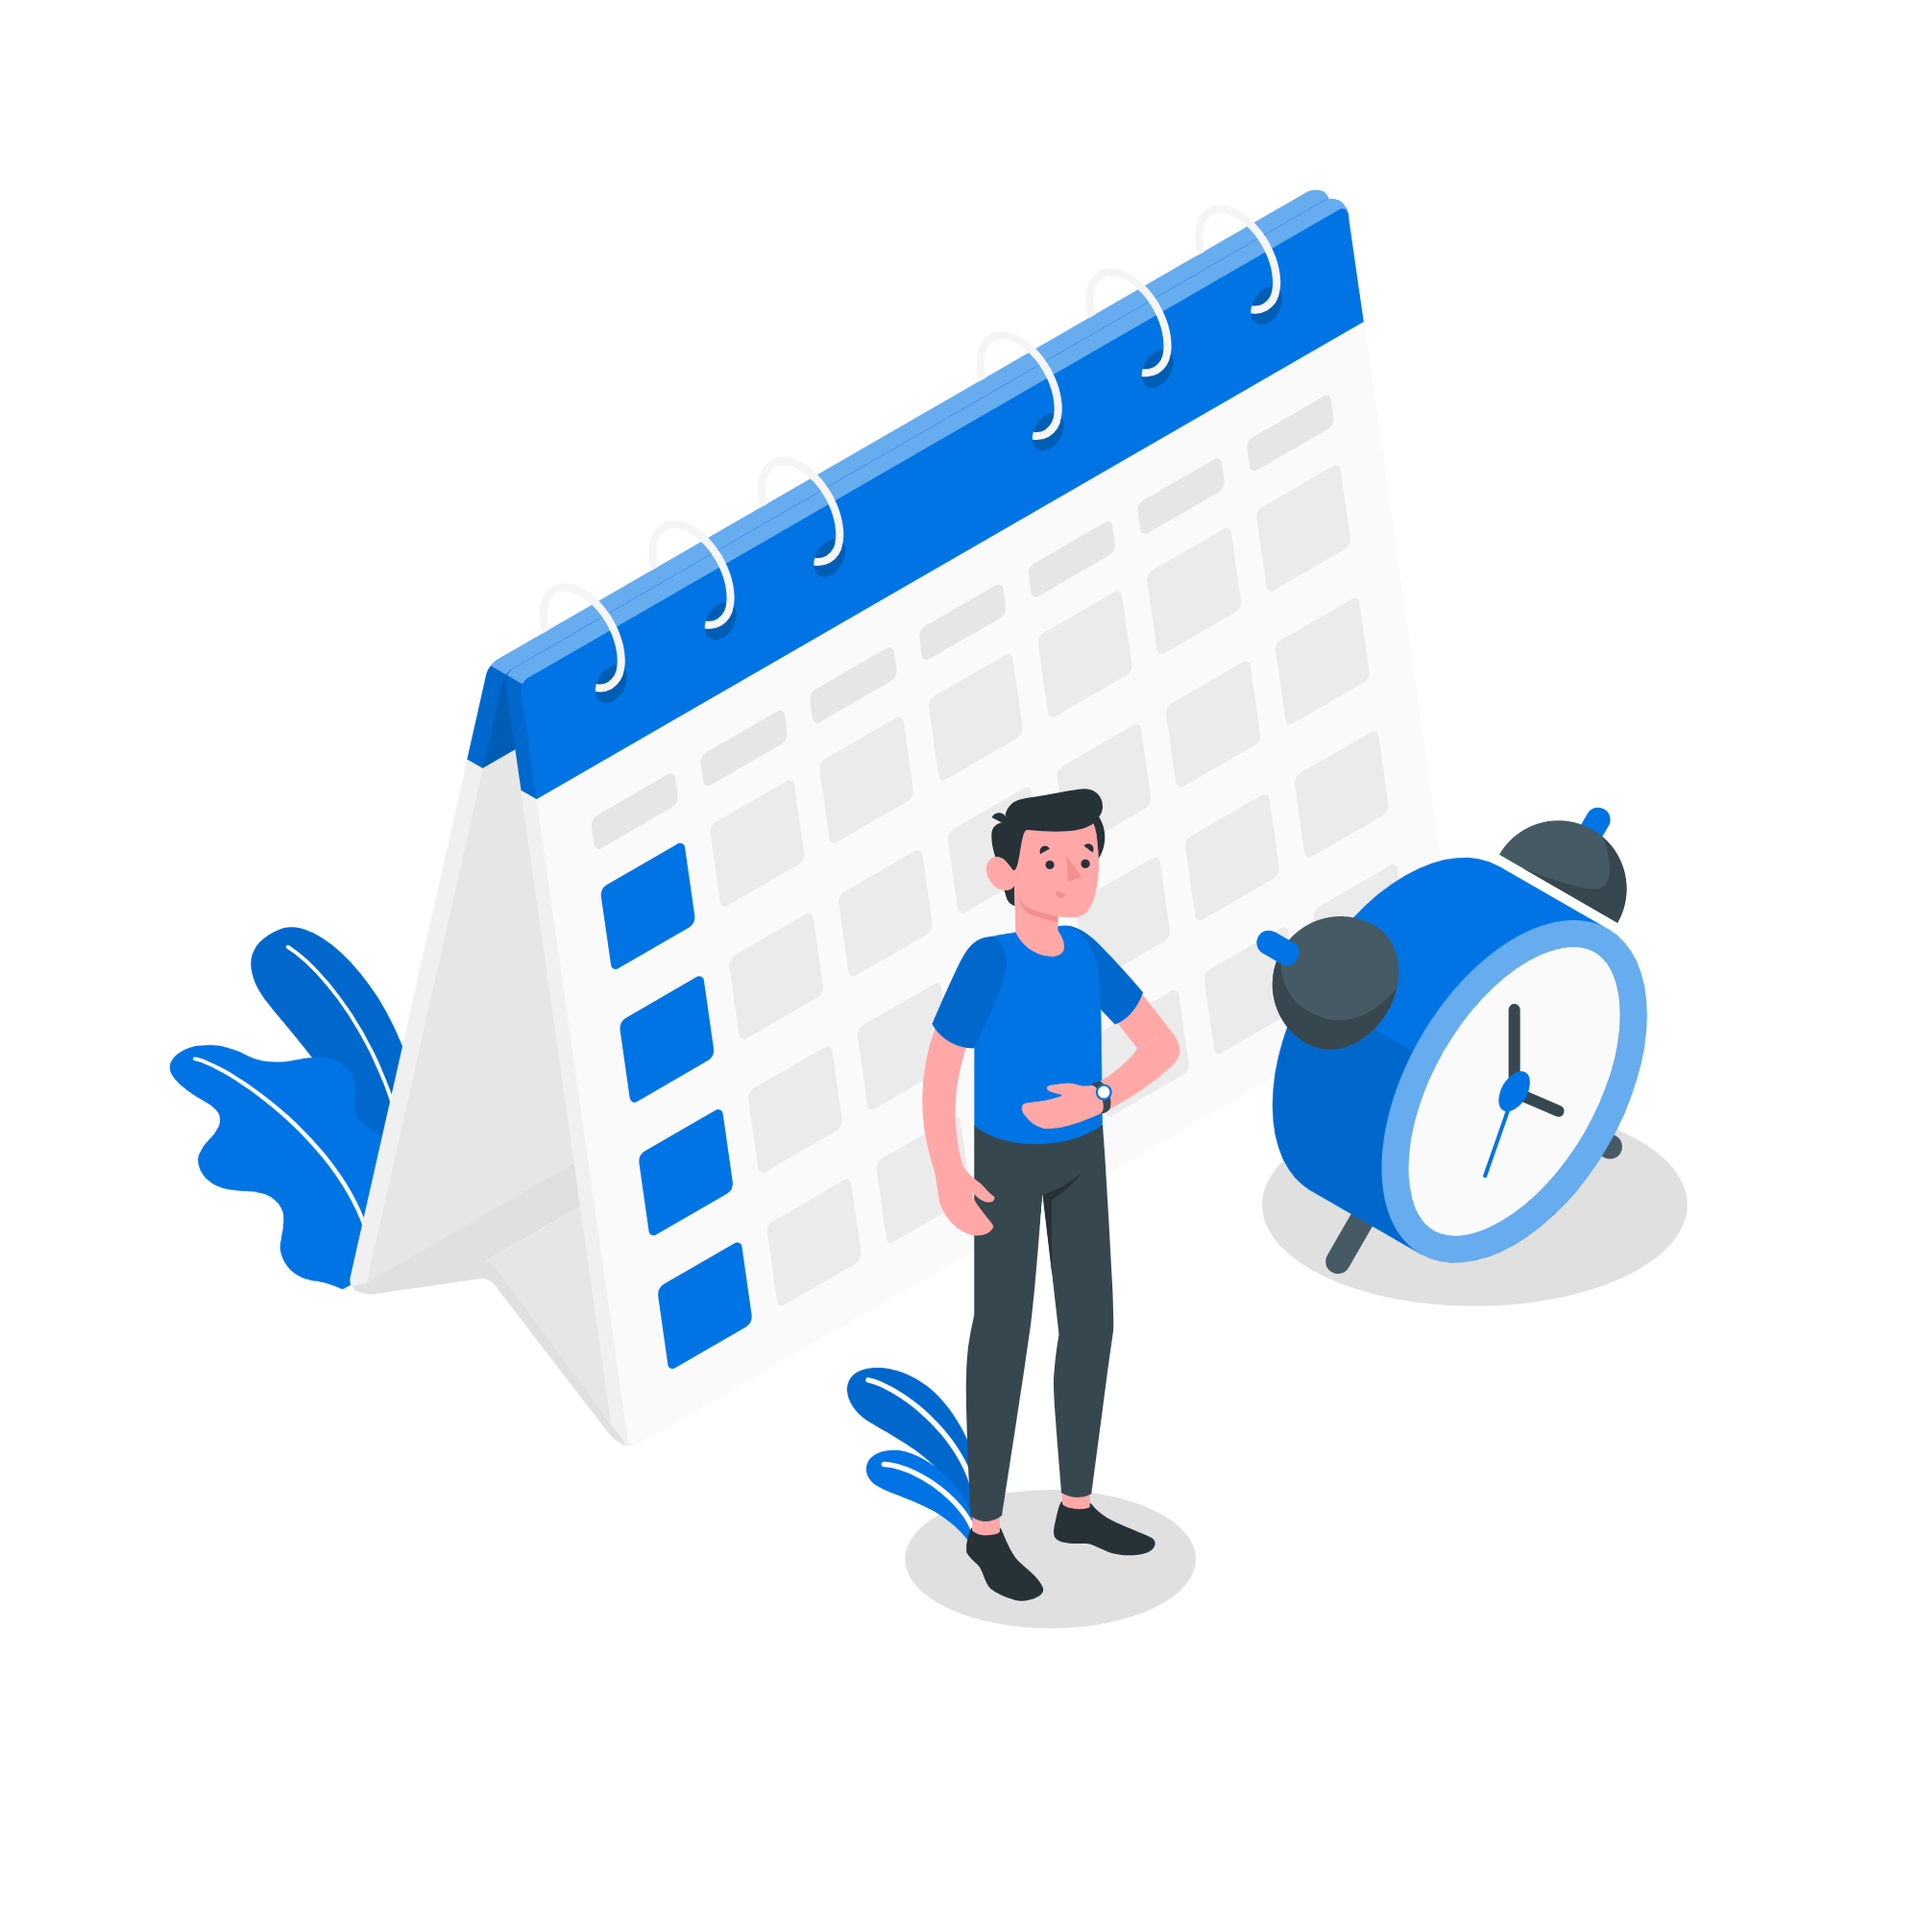
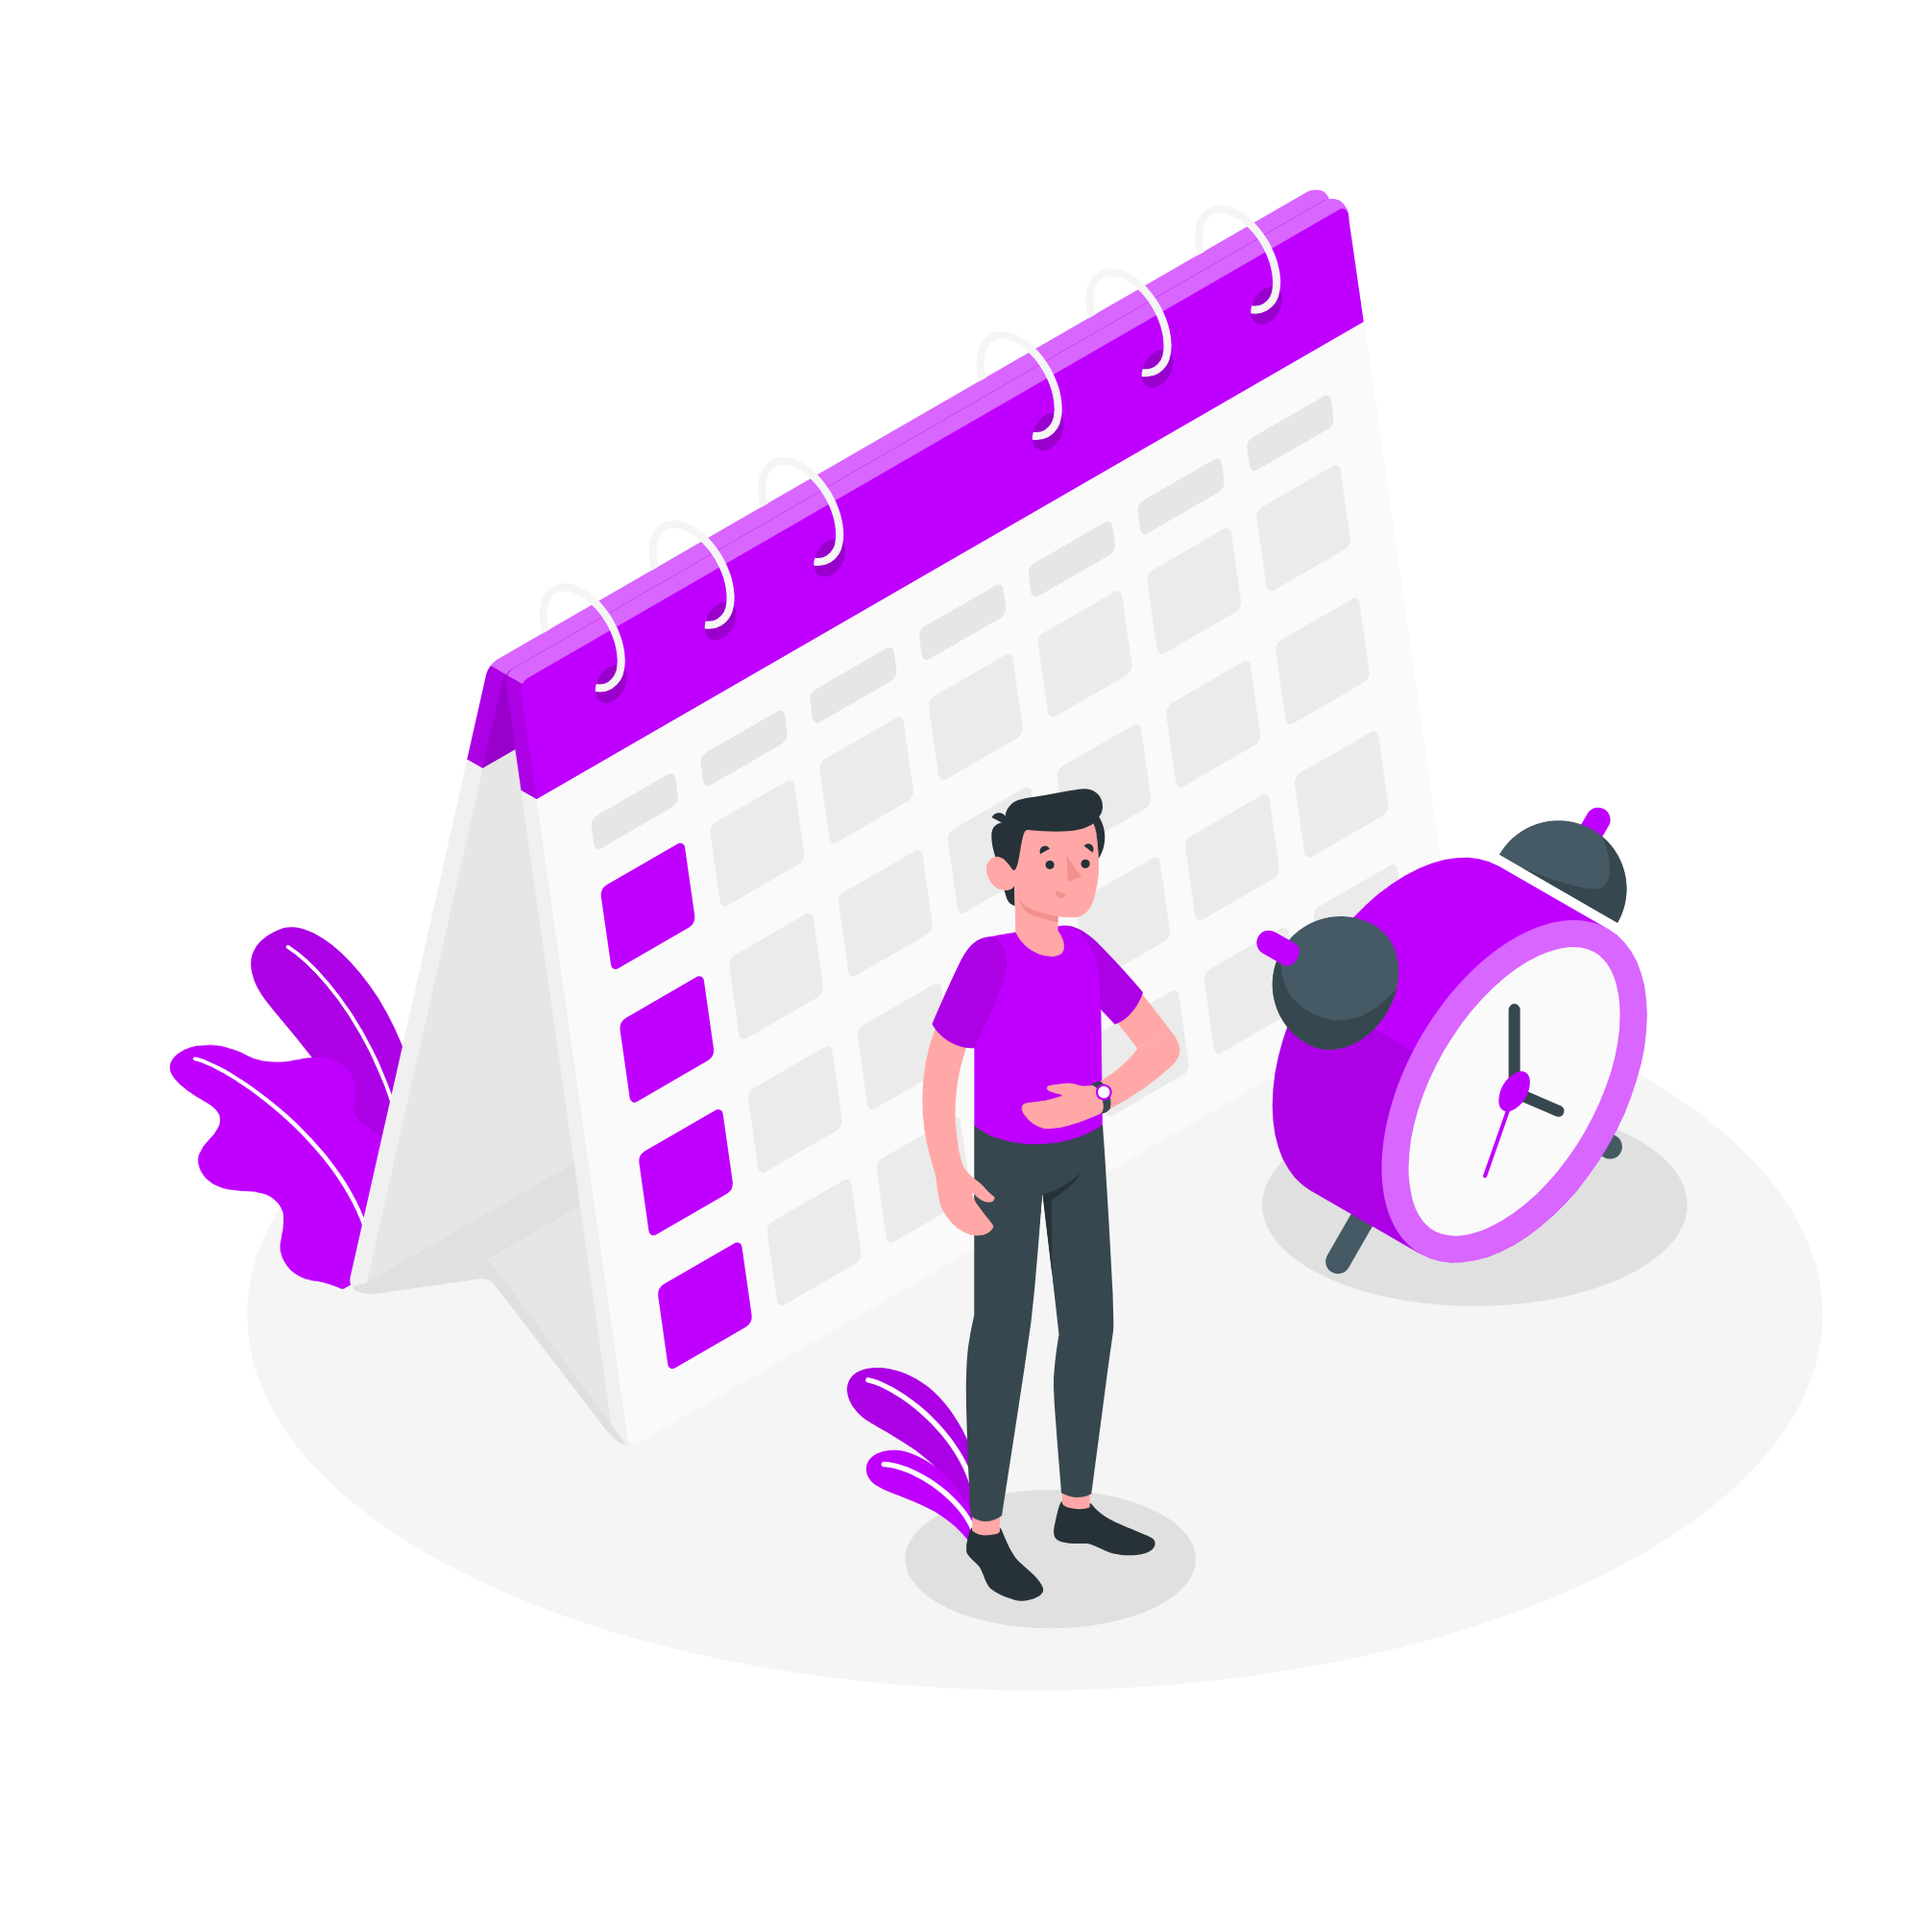
color changes

diff --git a/src/assets/styles/home.css b/src/assets/styles/home.css
@@ -4,7 +4,7 @@ body {
 /* hero section css  */
 .hero-section {
   padding: 0.7rem 0;
-  background-color:  var(--primary-color); 
+  background: var(--primary-color); 
   position: relative;
 }
 .wave{
@@ -57,7 +57,7 @@ body {
 
 .intro-card__wrapper::after{
   content: '';
-  background-color: var(--primary-color);
+  background-color: var(--primary-color-purple);
   height: 20%;
   width: 20%;
   border-radius: 50%;
@@ -65,14 +65,20 @@ body {
   position: absolute;
   top: -15%;
   left:-8%;
+  opacity: 0;
+  transition: opacity 0.3s ease-in; 
+  
 }
 
+.intro-card__wrapper:hover::after {
+  opacity: 1; 
+}
 /* priority teckitng section */
 /* BA68C8 */
 
 .priority-ticket-icon__wrapper i {
   font-size: 3rem !important;
-  color: var(--primary-color);  
+  color: var(--primary-color-purple);  
 }
 
 .priority-ticket-heading{
@@ -124,9 +130,11 @@ body {
   color: #0f0d0c !important;
 
 }
-
+.section-bg{
+  background-color: var(--section-bg);
+}
 .ticket-managment__card-wrapper:hover {
-  background-color: var(--primary-color);
+  background-color: var(--primary-color-purple);
   transition: 0.5s ease-in-out;
 }
 

diff --git a/src/components/authentication/constant/Form.css b/src/components/authentication/constant/Form.css
@@ -1,7 +1,7 @@
 /* form left side */
 
 .form-left-side {
-  background-color: var(--primary-color);
+  background: var(--primary-color);
   min-height: var(--height);
   position: relative;
 }
@@ -46,7 +46,7 @@
 .focused:focus {
   box-shadow: none !important;
   outline: none !important;
-  border: 1px solid var(--primary-color);
+  border: 1px solid var(--primary-color-purple);
 }
 .password-toggle__icon {
   position: absolute;
@@ -55,6 +55,9 @@
  top: 40px;
   cursor: pointer;
   font-size: 1.4rem !important;
+}
+.contant-form-btn{
+  background: var(--primary-color);
 }
 
 .form-submitting {

diff --git a/src/components/landing page/components/system intro/IntroCard.jsx b/src/components/landing page/components/system intro/IntroCard.jsx
@@ -3,8 +3,8 @@ import React from "react";
 const IntroCard = ({title , desc}) => {
   return (
     <>
-      <div className='col-12 col-lg-6 col-xxl-3 col-md-6  '>
-        <div className='intro-card__wrapper shadow h-100 '>
+      <div className='col-12 col-lg-6 col-xxl-3 col-md-6 position relative  '>
+        <div className='intro-card__wrapper shadow h-100 position-relative '>
           <h2 className="text-dark fw-bold fs-5">{title}</h2>
           <p className="constant__text">
          {desc}

diff --git a/src/components/landing page/components/ticket managment/TicketManagment.jsx b/src/components/landing page/components/ticket managment/TicketManagment.jsx
@@ -20,7 +20,7 @@ const TicketManagment = () => {
             return (
               <div className='col-12 col-lg-4 g-3 col-md-6' key={index}>
                 <div className='ticket-managment__card-wrapper shadow mx-1 h-100  '>
-                  <i style={{fontSize: "5rem", color: "#0074E4"}}>
+                  <i style={{fontSize: "5rem", color: "#BF00FF"}}>
                     {currElm.icon}
                   </i>
                   <h4 className='constant__heading mt-5 '>{currElm.title}</h4>

diff --git a/src/components/authentication/constant/Form.jsx b/src/components/authentication/constant/Form.jsx
@@ -115,7 +115,7 @@ const Form = ({
                     {forgotPassPage}
                   </Link>
 
-                  <Button onSubmit={handleSubmit} className='form-control fw-bold mt-5 py-2 bg-primary text-white '>
+                  <Button onSubmit={handleSubmit} className='form-control fw-bold mt-5 py-2 contant-form-btn text-white '>
                     {submitting === true ? (
                       <FiLoader className='form-submitting' />
                     ) : (

diff --git a/src/assets/styles/index.css b/src/assets/styles/index.css
@@ -4,7 +4,11 @@
 @import url('https://fonts.googleapis.com/css2?family=Lato&family=Source+Code+Pro&display=swap');
 
 :root {
-  --primary-color : #0074E4;
+  /* --primary-color : #0074E4; =>  solid blue */
+  /* purple gradint hex code #FE4EDA */
+  --primary-color: linear-gradient(160deg, #BF00FF 10%, #32174D 100%);
+  --primary-color-purple: #BF00FF ;
+  --section-bg : #e144ba0c ;
   --text-color-white : #f5f5f5 ;
   --light-gray : #F5F5F5;
   --white: #fff;  

diff --git a/src/partials/FeatureBanner.jsx b/src/partials/FeatureBanner.jsx
@@ -9,7 +9,7 @@ const FeatureBanner = ({titleSpan ,title , text , className}) => {
   return (
     <>
       <div className='row py-4'>
-        <div className='col-12 col-lg-8 offset-lg-2'>
+        <div className='col-12 col-lg-8 mx-auto'>
           <h1 className={headingClasses}>
             {title} <span>{titleSpan}</span>
           </h1>
